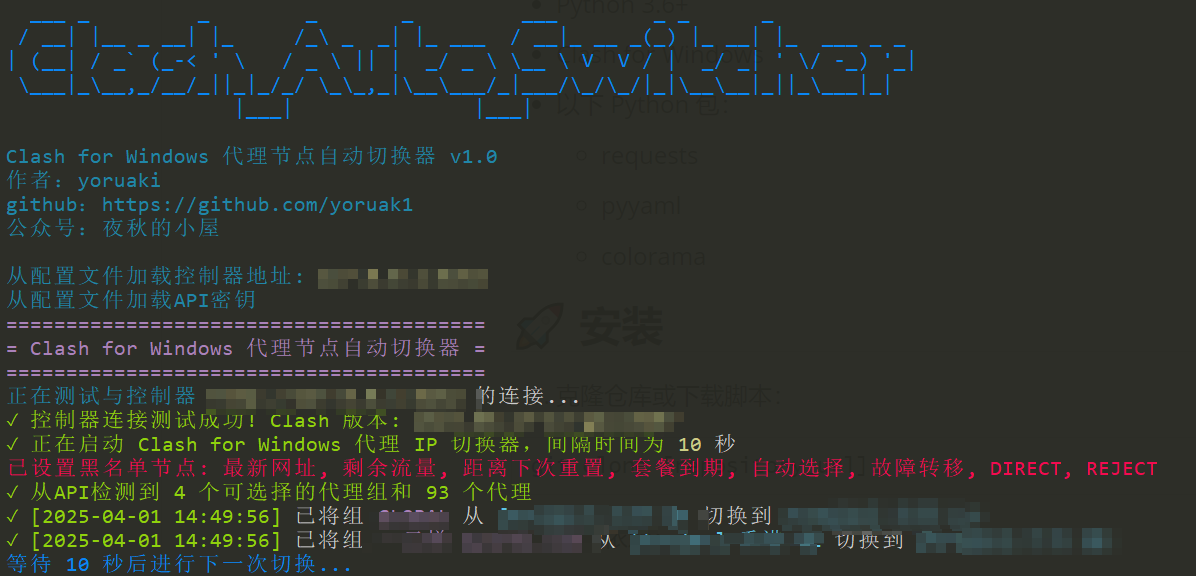
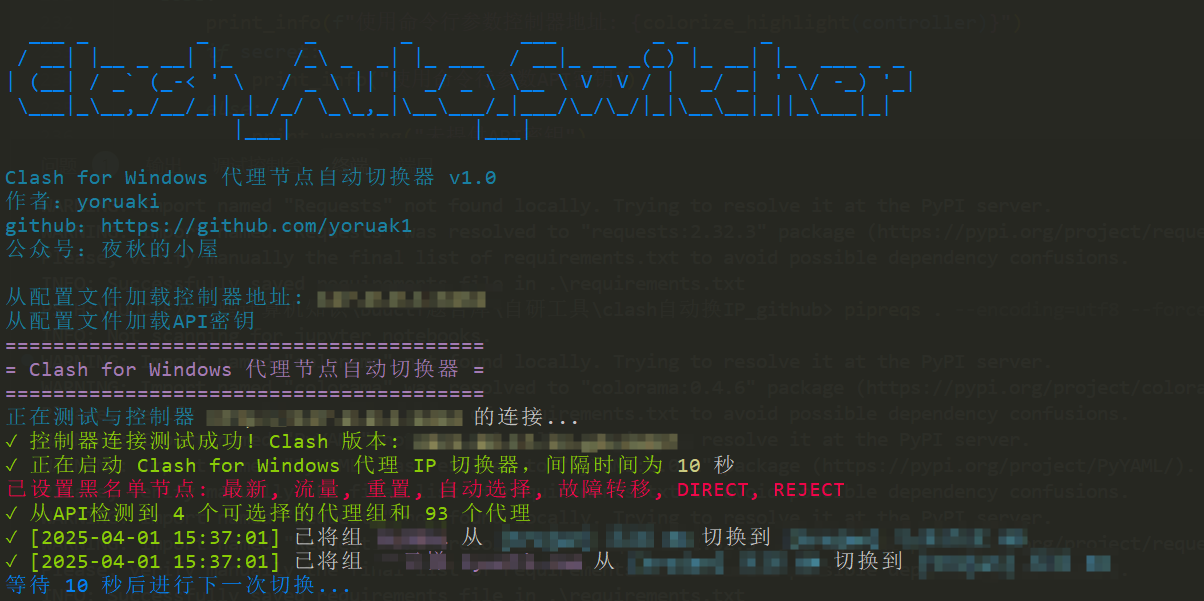
Add files via upload

Changed region(s): [[0.0, 0.0312, 0.959, 1.0], [0.8972, 0.9062, 0.9281, 0.9688]]

diff --git a/clash_auto_switcher.py b/clash_auto_switcher.py
@@ -127,7 +127,7 @@ def get_proxies_and_groups(controller_address, secret):
 
 def switch_proxy(interval, config_path, secret, controller_address, blacklist=None):
     if blacklist is None:
-        blacklist = ["最新网址", "剩余流量", "距离下次重置", "套餐到期", "自动选择", "故障转移", "DIRECT", "REJECT"]
+        blacklist = ["最新", "流量", "重置", "自动选择", "故障转移", "DIRECT", "REJECT"]
     print_highlight(f"已设置黑名单节点: {', '.join(blacklist)}")
     
     api_url = controller_address
@@ -209,8 +209,8 @@ def main():
     parser.add_argument('--secret', '-s', help='手动输入Clash API 密钥')
     parser.add_argument('--controller', '-a', default='127.0.0.1:9090', help='手动输入Clash控制器地址')
     parser.add_argument('--blacklist', '-b', nargs='+', 
-                       default=["最新网址", "剩余流量", "距离下次重置", "套餐到期", "自动选择", "故障转移", "DIRECT", "REJECT"], 
-                       help='要避开的代理节点名称列表（默认：最新网址 剩余流量 距离下次重置 套餐到期 自动选择 故障转移 DIRECT REJECT）')
+                       default=["最新", "流量", "重置", "自动选择", "故障转移", "DIRECT", "REJECT"], 
+                       help='要避开的代理节点名称列表（默认：最新 流量 重置 自动选择 故障转移 DIRECT REJECT）')
     
     args = parser.parse_args()
     

diff --git a/README.md b/README.md
@@ -45,7 +45,7 @@ python clash_auto_switcher.py -a your_external-controller -s your_secret -i 60
   -i, --interval    代理切换之间的间隔（默认：60秒）
   -s, --secret      手动输入Clash API 密钥
   -a, --controller  手动输入Clash控制器地址
-  -b, --blacklist   要避开的代理节点名称列表
+  -b, --blacklist   要避开的代理节点名称列表（默认：最新 流量 重置 自动选择 故障转移 DIRECT REJECT）
 ```
 
 ### 配置文件示例
@@ -66,7 +66,7 @@ secret: your_secret
 
 ### 黑名单设置
 
-默认的黑名单包含以下节点名称：最新网址，剩余流量，距离下次重置，套餐到期，自动选择，故障转移，DIRECT，REJECT
+默认的黑名单包含以下节点名称：最新，流量，重置，自动选择，故障转移，DIRECT，REJECT
 
 可以通过 `-b` 参数自定义黑名单：
 ```bash
